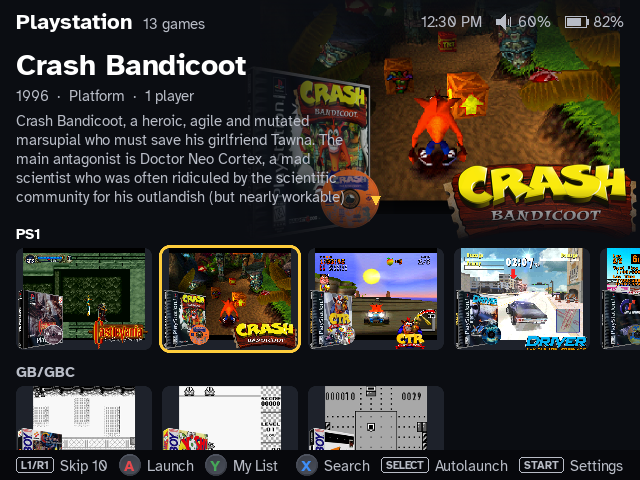
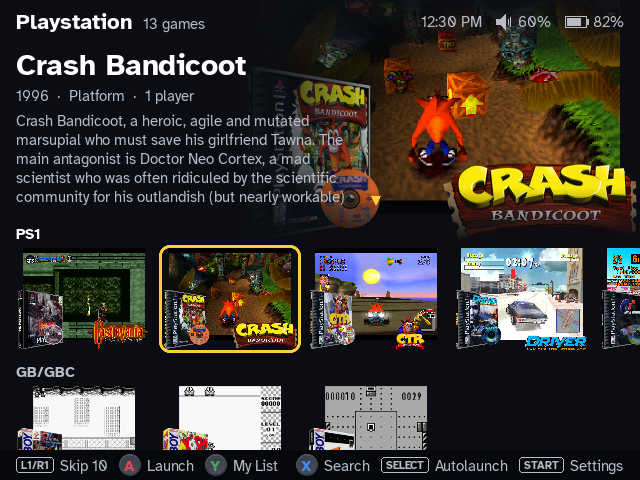
Puppy: no grey tile behind a cover in the Showcase style
815c9be took the grey tile out from behind the covers so a scraped
picture's transparent parts (rounded corners, a box or a logo past the
screenshot, the frame of ScreenScraper's mixes) show the launcher's
background. The Showcase style, which came later from Vitrine, put a
tile back: behind the list's picture and behind every cover of the
grid's rows.

Both now draw the tile only for a game without a picture, whose
fallback icon would otherwise float. The grid's selection was an accent
rectangle under the cover, which would show through a transparent
picture, so the selected cover now sits on the background inside an
accent ring of the same 3 px. A trailer fills the list's box as before.

README: showcase-grid.png and showcase-list.png retaken with the
Showcase screenshot script (ultra-dev art; grid: Down x5, Right; list:
F1 x5, Down x9). The script on the previous build gives the old ones
pixel for pixel.

diff --git a/rootfs/package/puppy/src/launcher.cpp b/rootfs/package/puppy/src/launcher.cpp
@@ -515,8 +515,11 @@ void LauncherScreen::renderShelf(Ui& ui) {
 
     const int x = kShelfCardX, w = kPreviewW;
     const SDL_Rect box = trailerBox();
-    ui.roundRect(box, 10, theme().tile);
-    if (!ui.drawFrame(trailer.frame(), box)) ui.drawIcon(ui.previewIcons(), e->iconPath, box);
+    if (!ui.drawFrame(trailer.frame(), box)) {
+        // a picture's transparent parts show the screen; only a game without one gets a tile
+        if (!ui.previewIcons().get(e->iconPath, false).tex) ui.roundRect(box, 10, theme().tile);
+        ui.drawIcon(ui.previewIcons(), e->iconPath, box);
+    }
     ui.roundCorners(box, 10, theme().bg);
     int y = box.y + box.h + 10;
     if (!e->meta.empty()) {
@@ -596,9 +599,11 @@ void LauncherScreen::renderRow(Ui& ui, int tab, int y, bool current) {
         SDL_Rect card{kMargin + (k - c.scroll) * pitch, y + kRowLabelH, kCardW, kCardH};
         if (card.x >= kScreenW) break;
         const bool sel = current && k == c.sel;
-        if (sel) ui.roundRect({card.x - 3, card.y - 3, card.w + 6, card.h + 6}, 11, accent());
-        ui.roundRect(card, 8, theme().tile);
         const Entry& entry = c.entries[c.visible[k]];
+        if (sel) ui.roundRect({card.x - 3, card.y - 3, card.w + 6, card.h + 6}, 11, accent());
+        // as in the list: the screen behind a picture, a tile behind a game without one
+        const bool picture = ui.cardIcons().get(entry.iconPath, false).tex;
+        if (sel || !picture) ui.roundRect(card, 8, picture ? theme().bg : theme().tile);
         ui.drawIcon(ui.cardIcons(), entry.iconPath, card);
         ui.roundCorners(card, 8, sel ? accent() : theme().bg);
         int pillX = card.x + 4;
